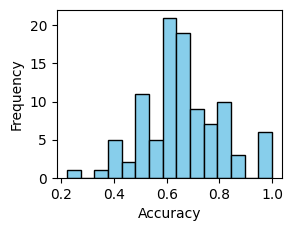
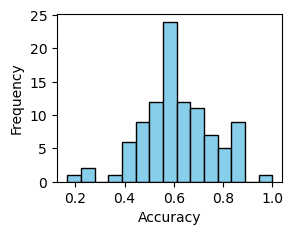
updating plots

diff --git a/README.md b/README.md
@@ -122,3 +122,8 @@ naive_bayes(movies_final, user_rating_cleaned)  # Randomly select 20% of the Dat
 ![alt text](precision.png)
 ![alt text](recall.png)
 ![alt text](accuracy.png)
+
+Means from above training:
+Precision: 0.6428
+Recall: 0.6507
+Accuracy: 0.6109
